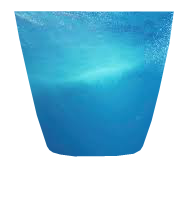
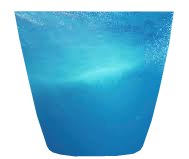
Shot glass now displays a partially filled glass based on remainder

diff --git a/src/pages/HomePage/HomePage.jsx b/src/pages/HomePage/HomePage.jsx
@@ -7,6 +7,7 @@ import "./HomePage.css"
 import Bottle from "../../components/Bottle/Bottle";
 import ShotGlass from "../../components/ShotGlass/ShotGlass";
 import Bathtub from "../../components/Bathtub/Bathtub";
+import PartialShotGlass from "../../components/ShotGlass/PartialShotGlass";
 
 const HomePage = () => {
   const [user, token] = useAuth();
@@ -17,6 +18,7 @@ const HomePage = () => {
   const [outputVolumeTitle, setOutputVolumeTitle] = useState("");
   const [visualization, setVisualization] = useState([]);
   const [visualizationCount, setVisualizationCount] = useState(0);
+  const [percentageVisualization, setPercentageVisualization] = useState(0);
 
   const standardizeVolume = () => {
     var volume = inputVolume
@@ -75,14 +77,18 @@ const HomePage = () => {
     else{
       convertedVolume = Math.round((standardizedVolume/shotGlassVolume)*100)/100
       roundedVolume = Math.trunc(convertedVolume)
+      percentLeftover = Math.round((convertedVolume-roundedVolume)*100)
       setVisualizationCount(roundedVolume)
       setOutputVolumeTitle("shot glasses")
     }
+    console.log("%", percentLeftover)
+    setPercentageVisualization(percentLeftover)
     setOutputVolume(convertedVolume)
   }
 
   const setVisualizationElement = () => {
     let visualizationElement = []
+    let visualizationOfPercentage
     switch(outputVolumeTitle){
       case "bathtubs":
         visualizationElement = Array.from(Array(visualizationCount)).map((_, index) => <Bathtub key={index}/>)
@@ -93,6 +99,9 @@ const HomePage = () => {
         break;
       case "shot glasses":
         visualizationElement = Array.from(Array(visualizationCount)).map((_, index) => <ShotGlass key={index}/>)
+        visualizationOfPercentage = <PartialShotGlass percent={percentageVisualization}/>
+        console.log(percentageVisualization)
+        visualizationElement.push(visualizationOfPercentage)
         break;
       }
     setVisualization(visualizationElement)
@@ -108,7 +117,7 @@ const HomePage = () => {
 
   useEffect(() => {
     setVisualizationElement()
-  }, [visualizationCount]);
+  }, [visualizationCount, percentageVisualization]);
 
   return (
     <div>

diff --git a/src/components/ShotGlass/PartialShotGlass.jsx b/src/components/ShotGlass/PartialShotGlass.jsx
@@ -1,0 +1,18 @@
+import glass from "../../images/empty-shot-glass.png"
+import liquid from "../../images/shot-glass-water.png"
+
+import "./PartialShotGlass.css"
+
+const PartialShotGlass = ({percent}) => {
+    const fillPercent = `${100 - percent}%`
+
+    const clipPath = `inset(${fillPercent} 0% 0% 0%)`
+    return ( 
+        <div className="shot-glass-container">
+            <img className="shot-glass" src={glass} alt="" />
+            <img style={{clipPath: clipPath}} className="shot-glass-fluid" src={liquid} alt="" />
+        </div>
+     );
+}
+ 
+export default PartialShotGlass;

diff --git a/src/components/ShotGlass/PartialShotGlass.css b/src/components/ShotGlass/PartialShotGlass.css
@@ -1,0 +1,11 @@
+.shot-glass-container{
+
+}
+.shot-glass{
+    position: absolute;
+    height: 150px;
+}
+.shot-glass-fluid{
+    height: 115px;
+    clip-path: inset(30% 0% 0% 0%);
+} 
